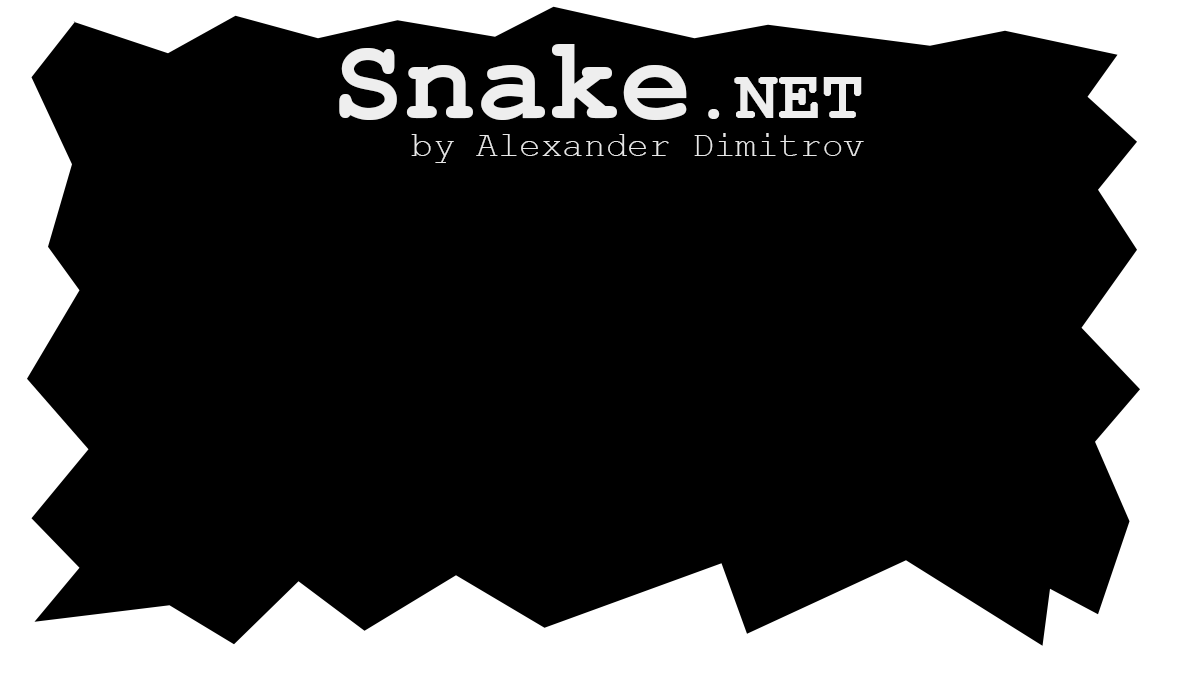
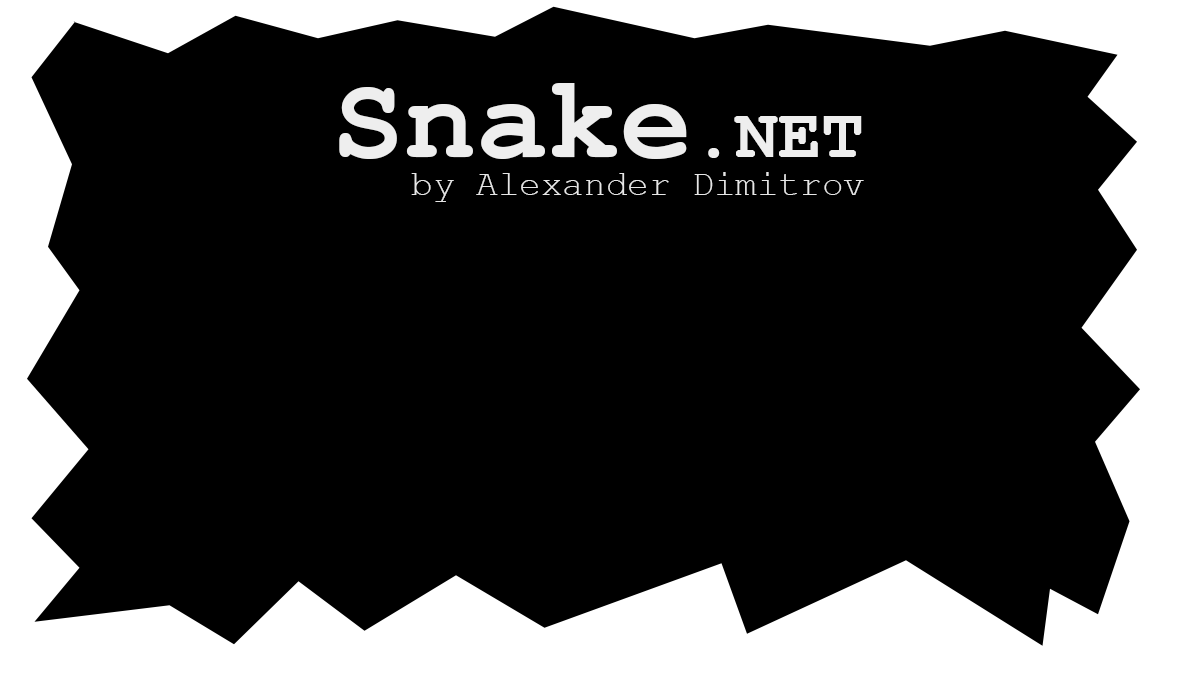
Updated layout

Changed region(s): [[0.2775, 0.0622, 0.74, 0.3111]]

diff --git a/MainWindow.xaml b/MainWindow.xaml
@@ -24,7 +24,7 @@
     </Window.Resources>
     <Grid>
         <Image Margin="0" Source="images/snake-menu.png" Stretch="None"/>
-        <Grid x:Name="Grd_MainMenu" Width="900" Height="350" Margin="0 80 0 0">
+        <Grid x:Name="Grd_MainMenu" Width="900" Height="300" Margin="0 100 0 0">
             <Grid.RowDefinitions>
                 <RowDefinition Height="*"/>
                 <RowDefinition Height="*"/>
